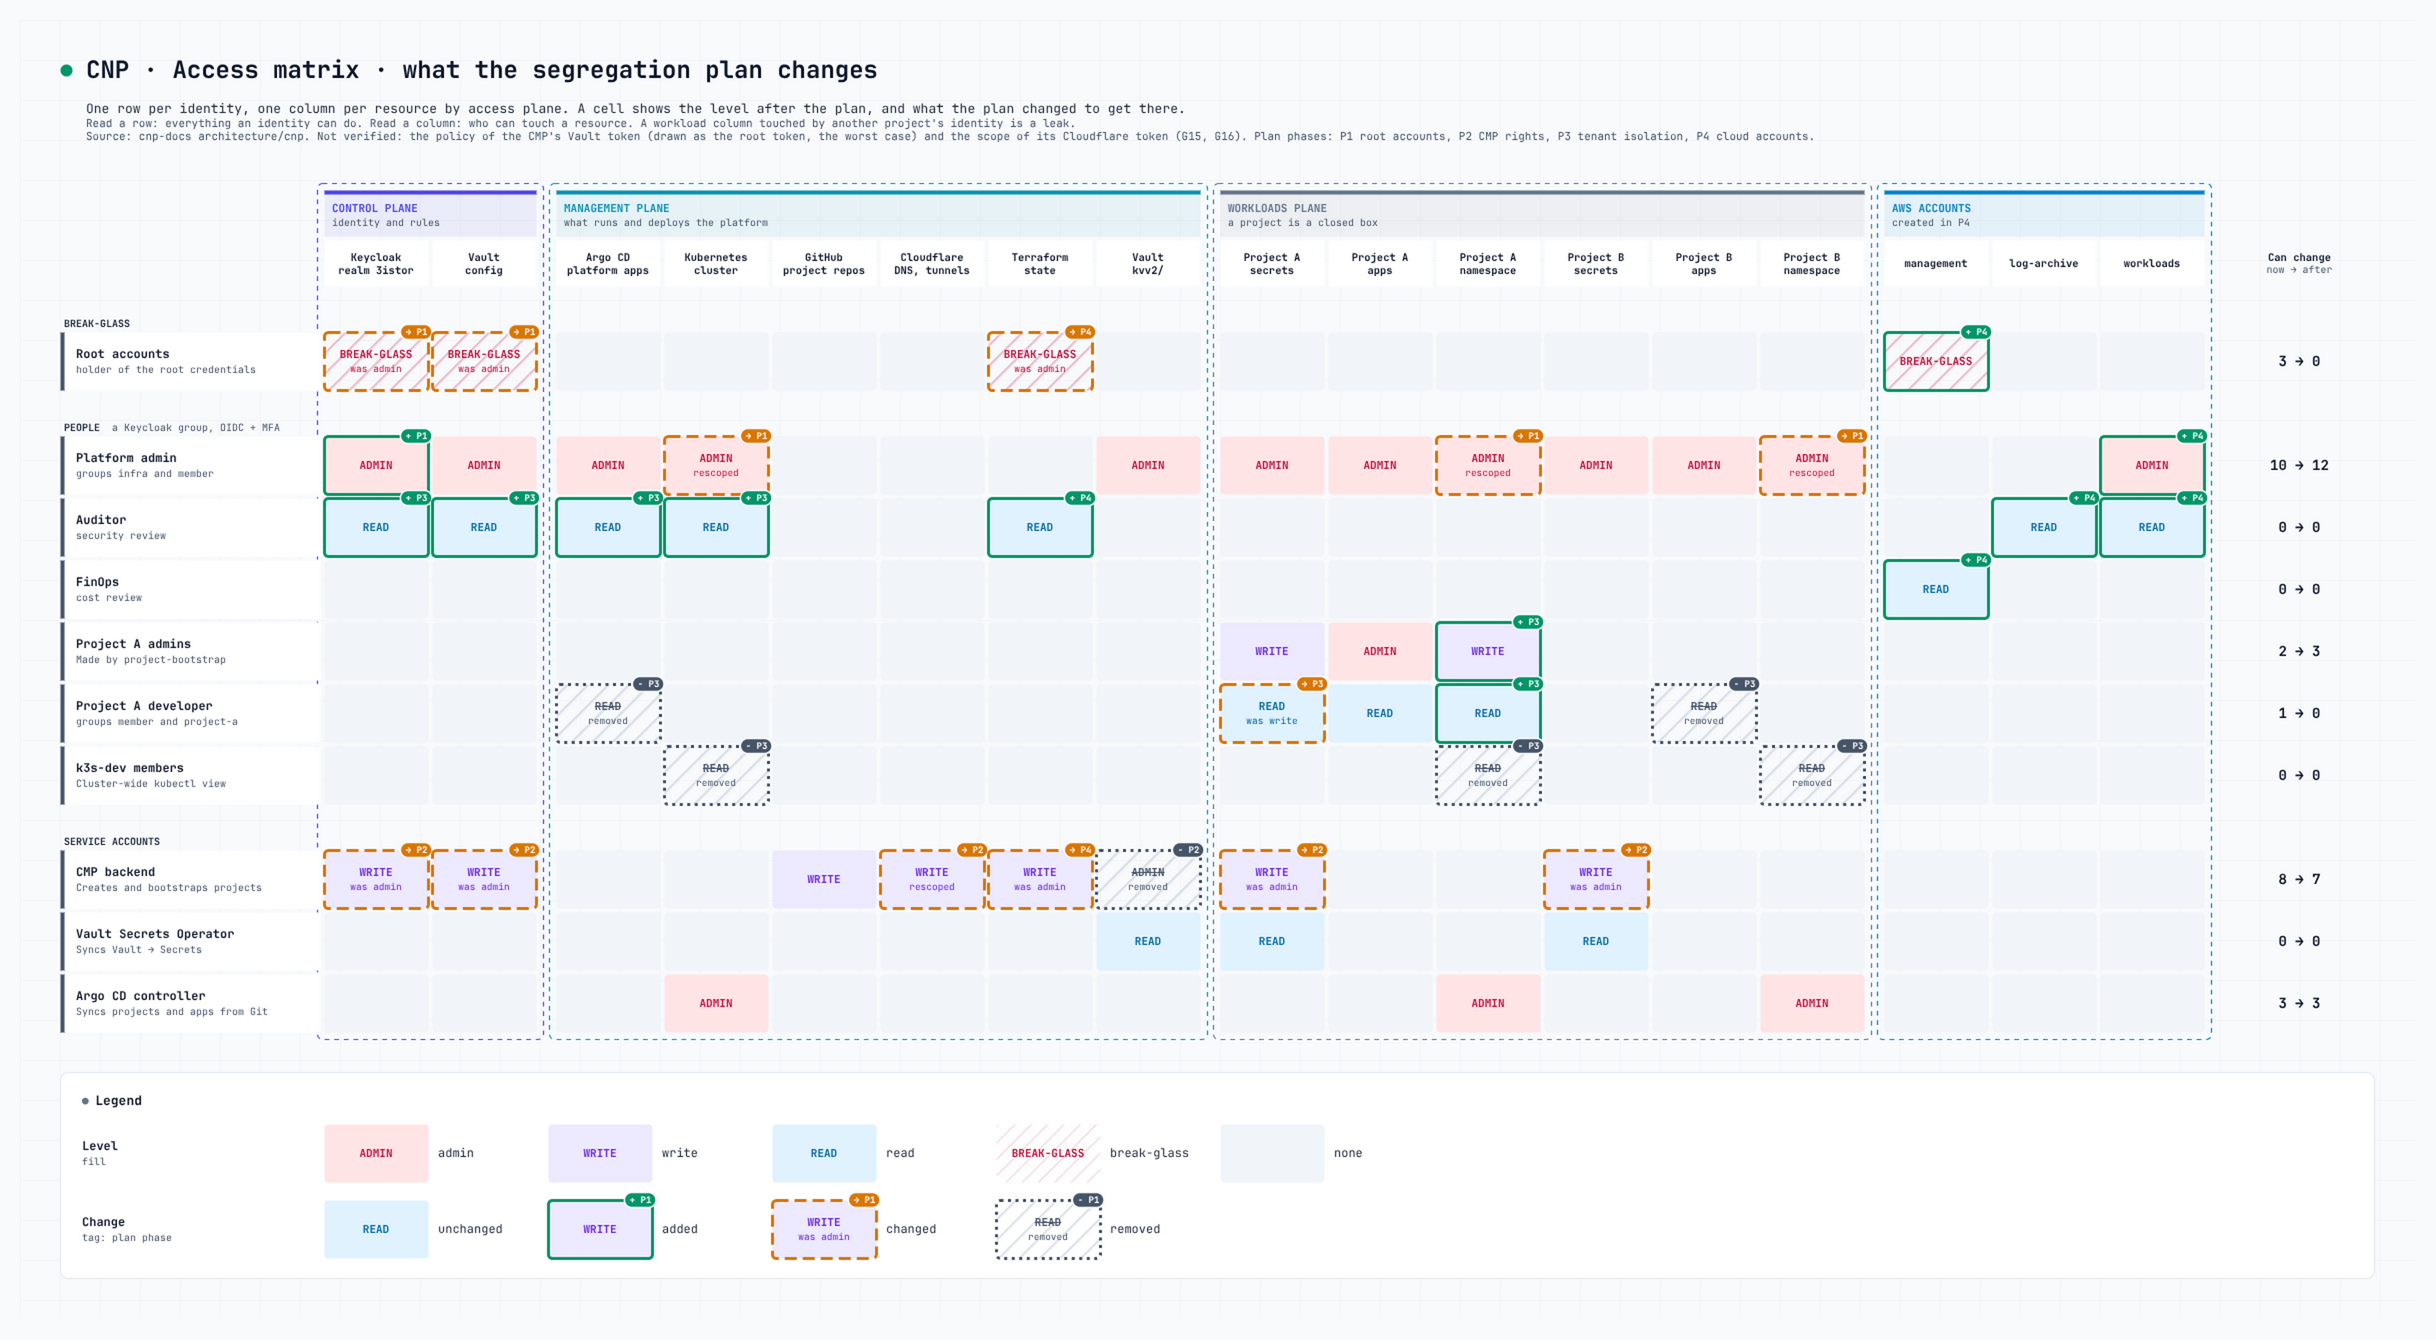
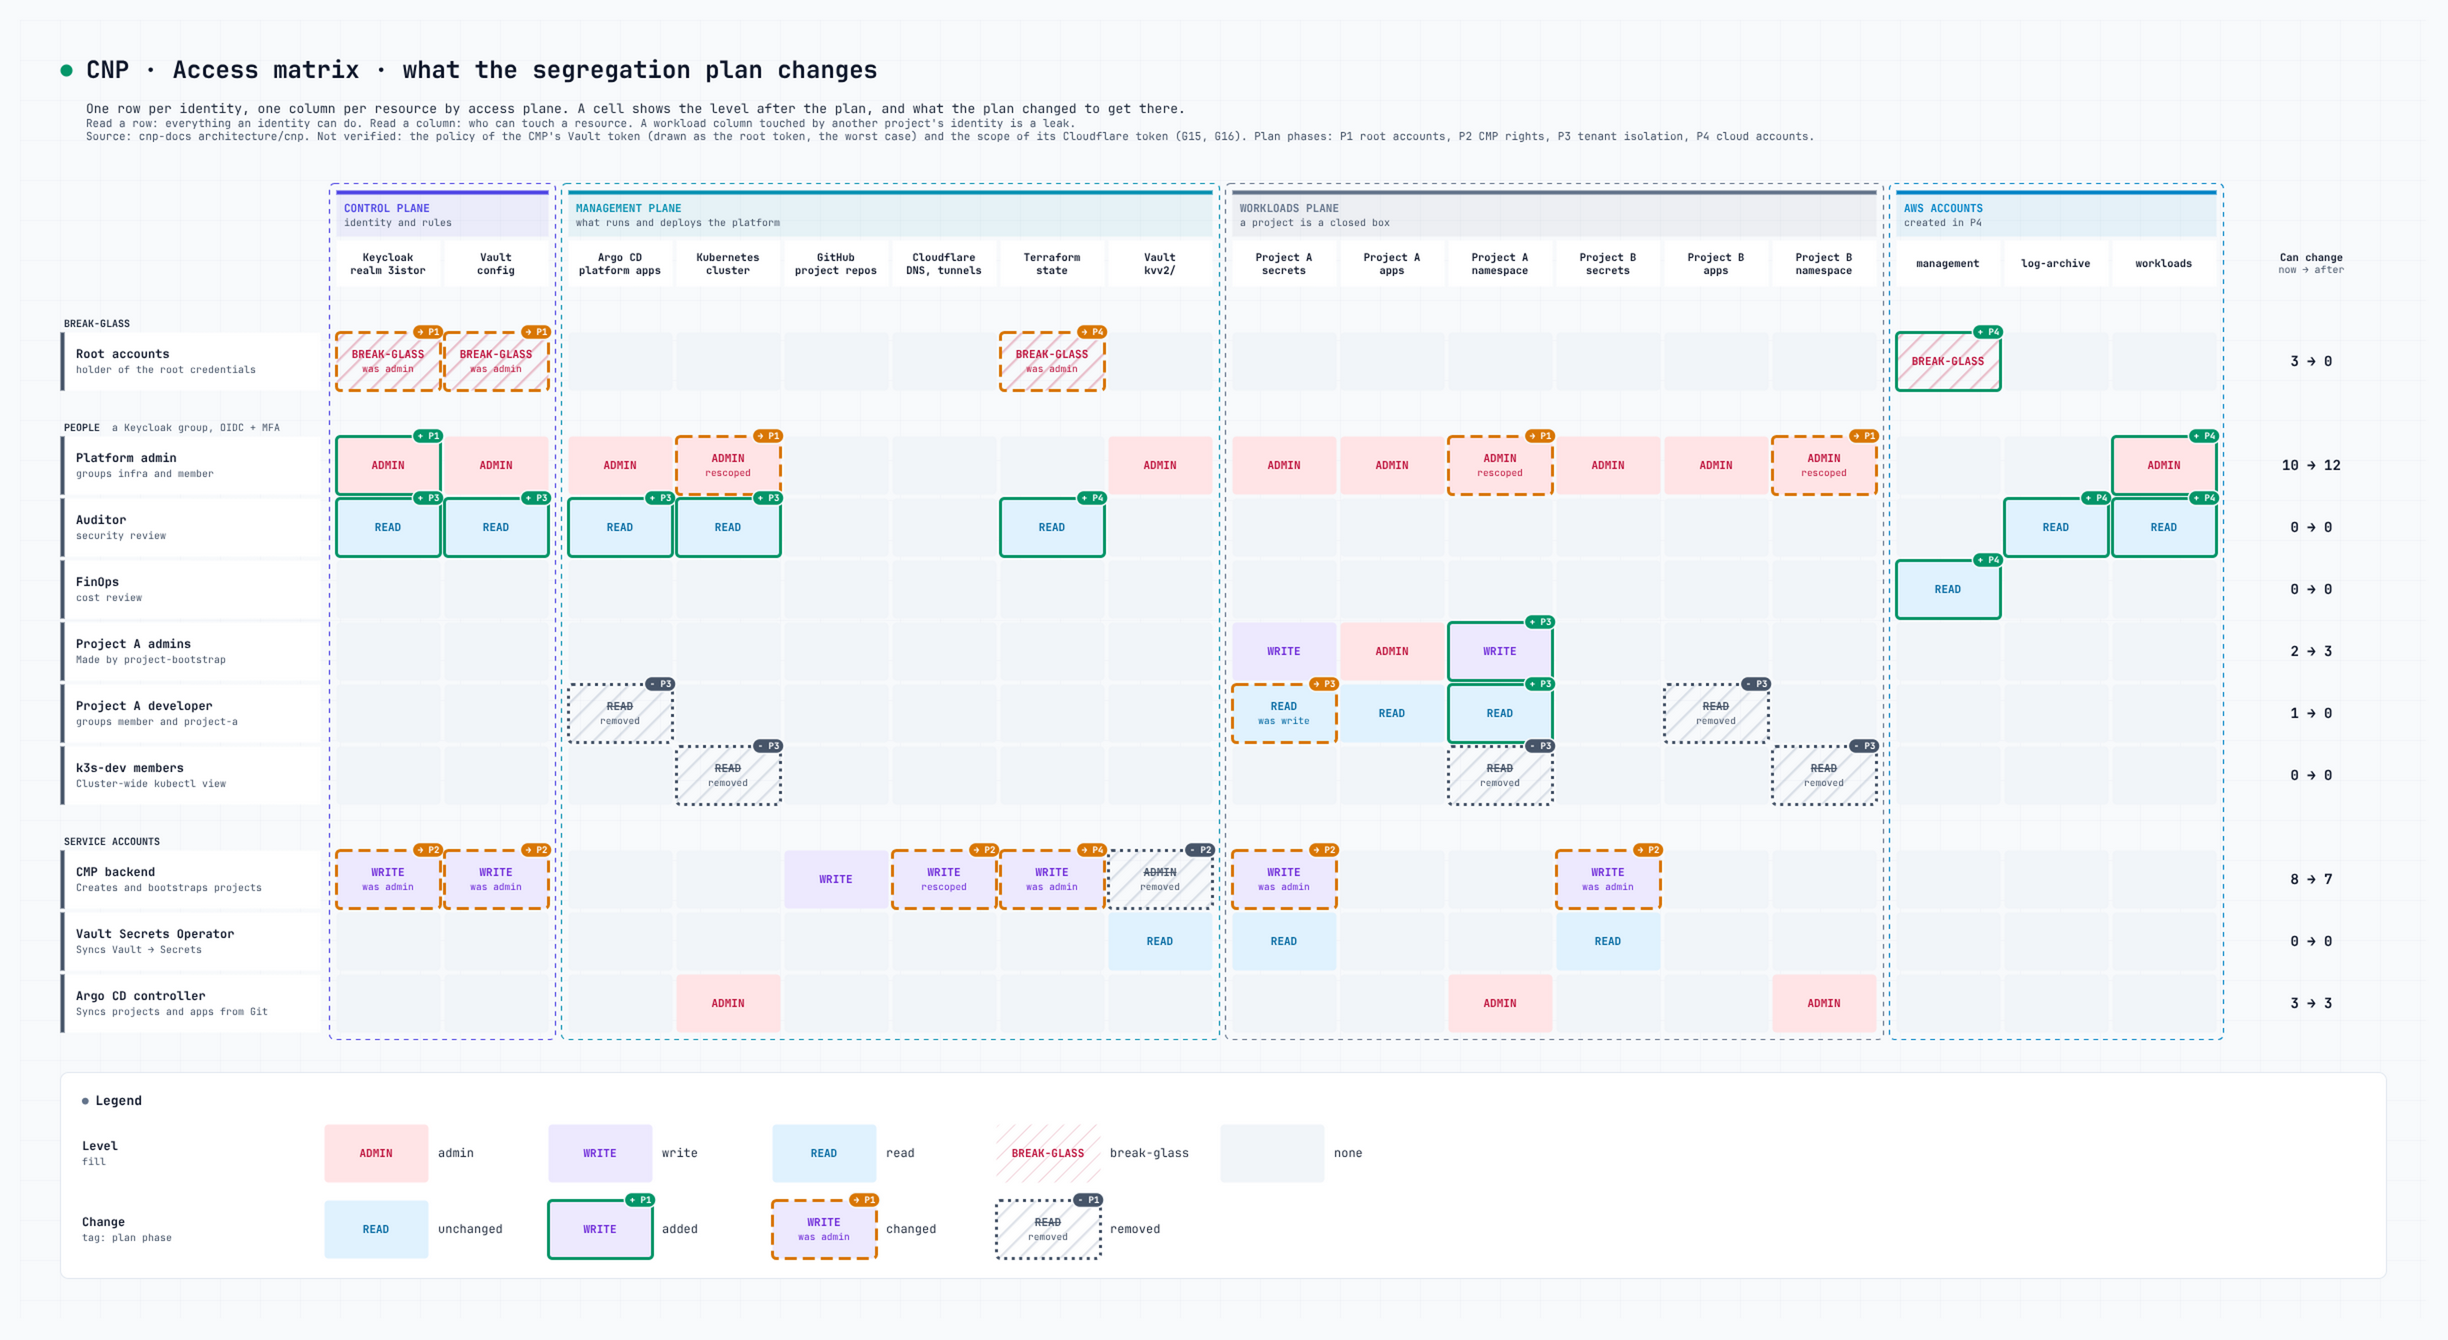
fix(resolve): keep the first matrix frame clear of the row headers
Claude-Session: https://claude.ai/code/session_01ER3EapmUNjupQxLPbgCuWv

diff --git a/internal/resolve/matrix_test.go b/internal/resolve/matrix_test.go
@@ -7,6 +7,7 @@ import (
 	"github.com/stretchr/testify/require"
 
 	"github.com/TheGostsniperfr/Noodle/internal/diagram"
+	"github.com/TheGostsniperfr/Noodle/internal/house"
 	"github.com/TheGostsniperfr/Noodle/internal/lint"
 	"github.com/TheGostsniperfr/Noodle/internal/model"
 	"github.com/TheGostsniperfr/Noodle/internal/resolve"
@@ -92,4 +93,15 @@ func TestMatrix_FramesReachTheLastRowAndTheCardHoldsTheLegend(t *testing.T) {
 		assert.True(t, m.LegendCard.Contains(c.Rect()), "legend cell %v outside the card %v", c.Rect(), m.LegendCard)
 	}
 	assert.Greater(t, m.LegendCard.Y, m.GridBottom)
+}
+
+func TestMatrix_FramesStayClearOfRowHeadersAndCounts(t *testing.T) {
+	t.Parallel()
+	m := smallMatrix(t).Matrix
+	first, last := m.ColumnGroups[0], m.ColumnGroups[len(m.ColumnGroups)-1]
+
+	for _, h := range m.Rows {
+		assert.Less(t, h.X+h.W, first.X-house.MatrixFrameOut, "row header %q under the frame", h.Lines[0])
+	}
+	assert.Greater(t, m.CountHeader.X, last.X+last.W+house.MatrixFrameOut)
 }

diff --git a/internal/resolve/matrix.go b/internal/resolve/matrix.go
@@ -40,7 +40,9 @@ func Matrix(s *model.System, viewID string) (*diagram.Spec, error) {
 	diff := access.New(s.Model, access.Diff)
 
 	m := &diagram.Matrix{State: state}
-	gridX := landscapeMargin + house.MatrixRowHeaderW + house.MatrixGap
+	// A group gap, not a cell gap, before the grid: the first column group's frame runs
+	// down that side and must stay clear of the row headers.
+	gridX := landscapeMargin + house.MatrixRowHeaderW + house.MatrixGroupGap
 	y := landscapeTop
 
 	// Column groups and headers, left to right with a gap between groups.
